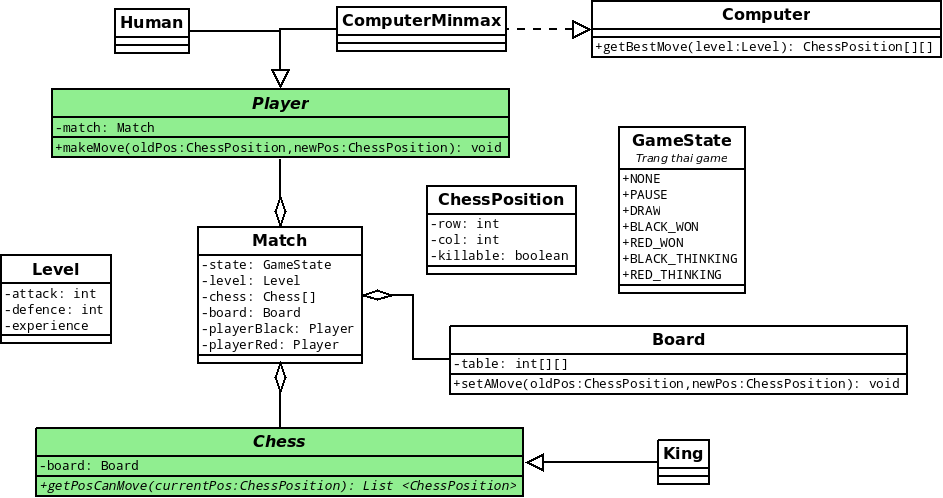
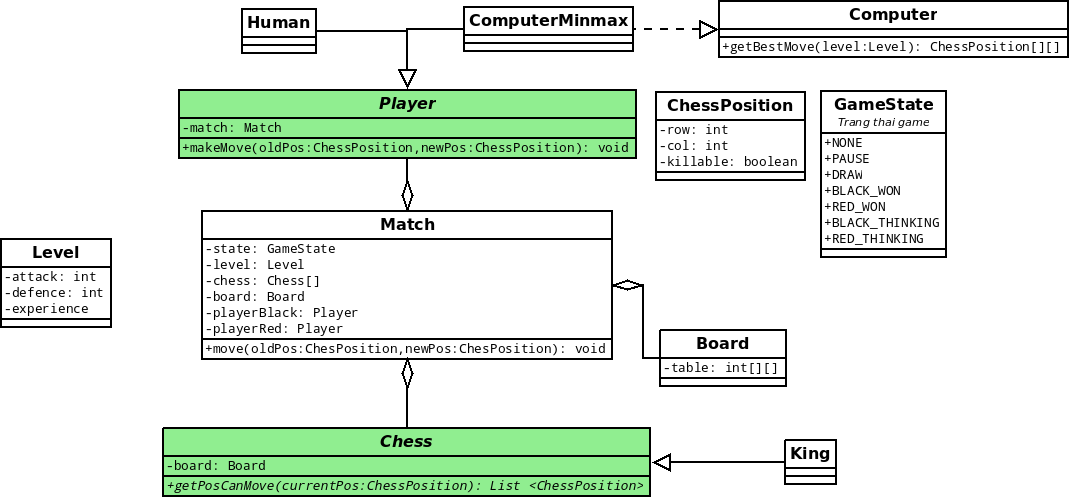
update design

diff --git a/src/model/Match.java b/src/model/Match.java
@@ -17,11 +17,13 @@
  */
 package model;
 
+import java.util.Observable;
+
 /**
  * @author heroandtn3
  * @date Jan 7, 2013
  */
-public class Match {
+public class Match extends Observable {
 
 	private Level level;
 	private GameState state;
@@ -35,7 +37,22 @@ public class Match {
 	public Match() {
 
 	}
+	
+	/**
+	 * Ham thuc hien di chuyen quan co tu vi tri cu sang vi tri moi
+	 * @param oldPos
+	 * @param newPos
+	 */
+	public void move(ChessPosition oldPos, ChessPosition newPos) {
+		int tmp = board.getTable()[oldPos.getRow()][oldPos.getCol()];
+		board.getTable()[newPos.getRow()][newPos.getCol()] = tmp;
+		
+		// danh dau la da thay doi va gui yeu cau update den cac observers
+		setChanged();
+		notifyObservers();
+	}
 
+	/* get, set -------------------------------------------------------------*/
 	public Level getLevel() {
 		return level;
 	}

diff --git a/src/model/Board.java b/src/model/Board.java
@@ -35,11 +35,6 @@ public class Board {
 	public int[][] getTable() {
 		return table;
 	}
-	
-	public void setAMove(ChessPosition oldPos, ChessPosition newPos) {
-		table[newPos.getRow()][newPos.getCol()]
-				= table[oldPos.getRow()][oldPos.getCol()];
-	}
 
 	public void setTable(int[][] table) {
 		this.table = table;

diff --git a/src/model/Player.java b/src/model/Player.java
@@ -36,7 +36,7 @@ public class Player {
 	
 	
 	public void makeMove(ChessPosition oldPos, ChessPosition newPos) {
-		match.getBoard().setAMove(oldPos, newPos);
+		match.move(oldPos, newPos);
 	}
 
 }
